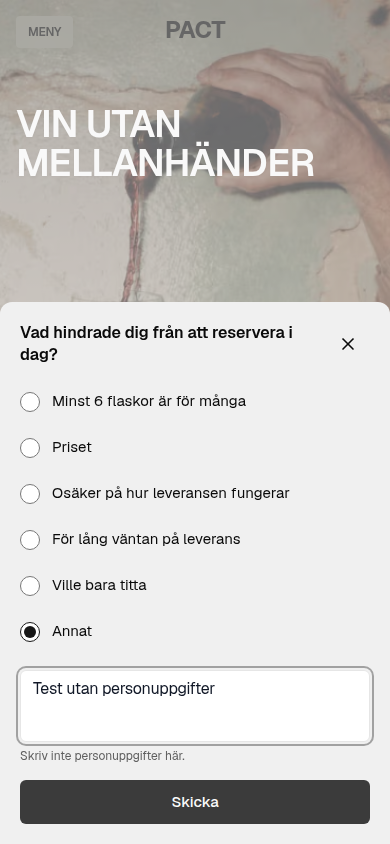
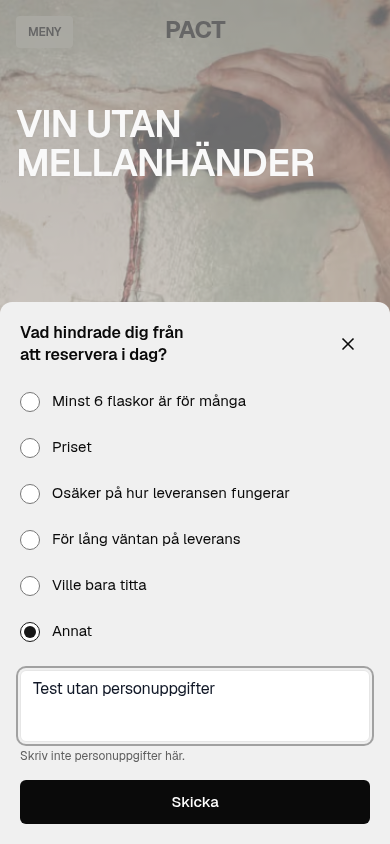
[agent] Exit feedback: black Skicka, nbsp heading, verified sizes
Force enabled Skicka to #0A0A0A @ opacity 1 (disabled 0.3); keep
i dag together via nbsp + nowrap + text-wrap balance; retake 390/1440
shots at deviceScaleFactor 1 with logged getComputedStyle sizes.

Changed region(s): [[0.0308, 0.9242, 0.9538, 0.9858], [0.0615, 0.4005, 0.4308, 0.4313], [0.4923, 0.3697, 0.7692, 0.4005]]

diff --git a/components/analytics/exit-feedback-prompt.tsx b/components/analytics/exit-feedback-prompt.tsx
@@ -37,9 +37,6 @@ import {
 
 type Phase = "feedback" | "thanks";
 
-const EXIT_FEEDBACK_HEADING =
-  "Vad hindrade dig från att reservera i dag?";
-
 function isCoarsePointer(): boolean {
   if (typeof window === "undefined") return false;
   return window.matchMedia("(pointer: coarse)").matches;
@@ -315,8 +312,6 @@ export function ExitFeedbackPrompt() {
 
   if (isB2B || !open) return null;
 
-  const title =
-    phase === "feedback" ? EXIT_FEEDBACK_HEADING : EXIT_FEEDBACK_THANKS_MESSAGE;
   const canSubmit = Boolean(reason) && !submitting;
 
   return (
@@ -337,9 +332,18 @@ export function ExitFeedbackPrompt() {
           <div className="min-w-0 flex-1 pr-2">
             <p
               id="exit-prompt-title"
-              className="text-[16px] font-semibold leading-snug text-foreground sm:text-[15px]"
+              data-exit-prompt-title=""
+              className="text-balance text-[16px] font-semibold leading-snug text-foreground sm:text-[15px]"
+              style={{ textWrap: "balance" }}
             >
-              {title}
+              {phase === "feedback" ? (
+                <>
+                  Vad hindrade dig från att reservera{" "}
+                  <span className="whitespace-nowrap">i{"\u00A0"}dag?</span>
+                </>
+              ) : (
+                EXIT_FEEDBACK_THANKS_MESSAGE
+              )}
             </p>
           </div>
           <button
@@ -349,7 +353,7 @@ export function ExitFeedbackPrompt() {
                 ? () => void finishFeedback(false)
                 : closeAll
             }
-            className="inline-flex h-11 w-11 min-h-[44px] min-w-[44px] shrink-0 items-center justify-center border-0 bg-transparent p-0 text-foreground shadow-none transition-opacity hover:opacity-70 focus-visible:outline-none focus-visible:ring-2 focus-visible:ring-ring"
+            className="inline-flex h-11 w-11 min-h-[44px] min-w-[44px] shrink-0 items-center justify-center border-0 bg-transparent p-0 text-foreground shadow-none hover:opacity-70 focus-visible:outline-none focus-visible:ring-2 focus-visible:ring-ring"
             aria-label="Stäng"
             data-exit-prompt-close=""
           >
@@ -365,6 +369,7 @@ export function ExitFeedbackPrompt() {
                 {EXIT_FEEDBACK_REASON_OPTIONS.map((opt) => (
                   <label
                     key={opt.value}
+                    data-exit-prompt-option=""
                     className="flex min-h-11 cursor-pointer items-center gap-3 rounded-md py-2 text-[15px] text-foreground sm:text-[14px]"
                   >
                     <input
@@ -400,6 +405,7 @@ export function ExitFeedbackPrompt() {
                   <p
                     id="exit-feedback-privacy-helper"
                     className="mt-1.5 text-[12px] leading-snug text-[#5F5F5F]"
+                    style={{ fontSize: "12px", color: "#5F5F5F" }}
                     data-exit-prompt-privacy-helper=""
                   >
                     {EXIT_FEEDBACK_PRIVACY_HELPER}
@@ -409,9 +415,19 @@ export function ExitFeedbackPrompt() {
 
               <button
                 type="button"
-                onClick={() => void finishFeedback(true)}
+                onClick={() => {
+                  if (!canSubmit) return;
+                  void finishFeedback(true);
+                }}
                 disabled={!canSubmit}
-                className="h-11 min-h-[44px] w-full rounded-[6px] bg-[#0A0A0A] text-[15px] font-medium text-white transition-opacity disabled:cursor-not-allowed disabled:opacity-30 sm:text-[14px]"
+                aria-disabled={!canSubmit}
+                className="h-11 min-h-[44px] w-full cursor-pointer rounded-[6px] border-0 text-[15px] font-medium sm:text-[14px] disabled:cursor-not-allowed"
+                style={{
+                  backgroundColor: "#0A0A0A",
+                  color: "#FFFFFF",
+                  // Explicit opacity — never inherit transition/hover opacity.
+                  opacity: canSubmit ? 1 : 0.3,
+                }}
                 data-exit-prompt-submit=""
               >
                 Skicka

diff --git a/docs/design-review/exit-feedback/README.md b/docs/design-review/exit-feedback/README.md
@@ -4,5 +4,6 @@ Question-only exit-intent popup (no discount / email / offer).
 
 - `exit-feedback-mobile-390-open.png` / `exit-feedback-desktop-1440-open.png` — popup open
 - `exit-feedback-mobile-390-freetext.png` / `exit-feedback-desktop-1440-freetext.png` — free-text + privacy helper
+- Captured at CSS viewport 390×844 / 1440×900 with `deviceScaleFactor: 1`
 
 Safe to delete after design sign-off.
